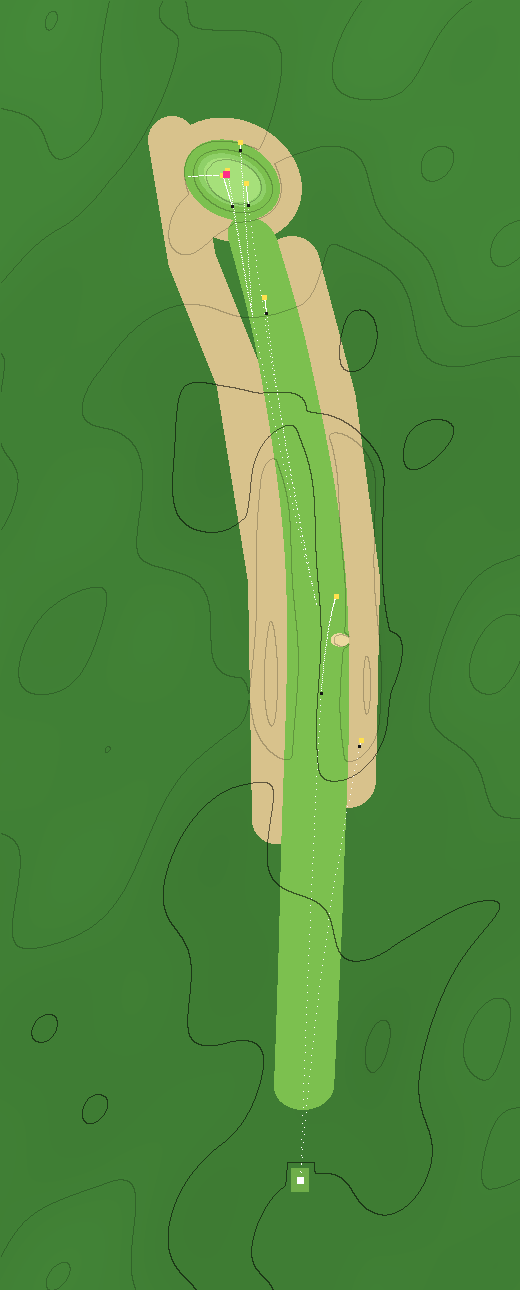
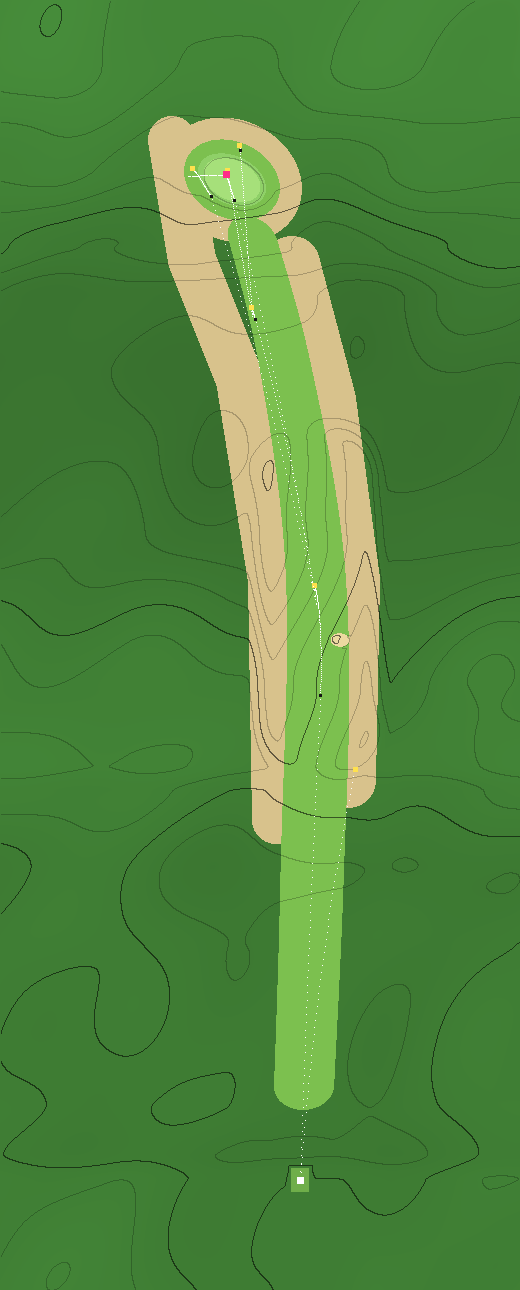
Pinehurst 5: heights and the fairway's slant from the 2003 NC DEM
Frame from the owner's green and tee pins. The DEM (3.4 m, the only USGS
elevation here) has the fairway falling to the left: the second is now
played with the ball above the feet (owner's choice), so the go and
lay-up aims move right (spec §6). Thirteen height ramps replace the
designed rise; the plateau stays.

Claude-Session: https://claude.ai/code/session_01L6C3mgW8iMSD9JZeturm7K

diff --git a/tests/hole-checks.js b/tests/hole-checks.js
@@ -145,18 +145,18 @@ module.exports = {
     shots: [
       { name: 'a good drive finds the fairway', shot: { club: 'Hammer', at: [-8, 288], offset: 0.1 }, expect: { surf: ['FAIRWAY'] } },
       { name: 'a pushed drive is in the wiregrass and sand, not the rough', shot: { club: 'Hammer', at: [-8, 288], offset: 0.5 }, expect: { end: 'rest', surf: ['WASTE'] } },
-      { name: 'the second shot is played with the ball below the feet', shot: { from: [-8, 288], club: '3-Wood' }, expect: { stance: 'BALL BELOW FEET · SLICES' } },
-      { name: 'a full 3-wood aimed straight at the pin from the slanted fairway is pushed right by the lie and finishes well away', shot: { from: [-8, 288], club: '3-Wood', at: 'pin', power: 1 }, expect: { end: 'rest', minToPin: 10 } },
-      { name: 'the same 3-wood aimed left of the green, allowing for the slant, finishes close', shot: { from: [-8, 288], club: '3-Wood', at: [46, 503] }, expect: { end: 'rest', surf: ['GREENS'], maxToPin: 8 } },
-      { name: 'the lay-up with an iron finds the fairway at wedge distance', shot: { from: [-8, 288], club: 'Iron', at: [24, 432] }, expect: { end: 'rest', surf: ['FAIRWAY'], minToPin: 50, maxToPin: 90 } },
+      { name: 'the second shot is played with the ball above the feet', shot: { from: [-8, 288], club: '3-Wood', at: [25, 505] }, expect: { stance: 'BALL ABOVE FEET · HOOKS' } },
+      { name: 'a full 3-wood aimed straight at the pin from the slanted fairway is hooked left by the lie and finishes well away', shot: { from: [-8, 288], club: '3-Wood', at: 'pin', power: 1 }, expect: { end: 'rest', minToPin: 10 } },
+      { name: 'the same 3-wood aimed right of the pin, allowing for the slant, finishes close', shot: { from: [-8, 288], club: '3-Wood', at: [25, 505] }, expect: { end: 'rest', surf: ['GREENS'], maxToPin: 8 } },
+      { name: 'the lay-up with an iron finds the fairway at wedge distance', shot: { from: [-8, 288], club: 'Iron', at: [13, 432] }, expect: { end: 'rest', surf: ['FAIRWAY'], minToPin: 50, maxToPin: 90 } },
       { name: 'from the lay-up, a well-struck wedge at the pin holds the top', shot: { from: [24, 432], club: 'Wedge', offset: 0.1 }, expect: { surf: ['GREENS'], maxToPin: 6 } },
       { name: 'a wedge flown to the back-left edge runs off the falloff', shot: { from: [24, 432], club: 'Wedge', at: [30, 515] }, expect: { end: 'rest', surf: ['FAIRWAY', 'FRINGE', 'WASTE', 'ROUGH'] } },
       { name: 'from the low runoff left of the green, a wedge back up the falloff finishes on or near the green', shot: { from: [56, 502], club: 'Wedge', offset: 0.1 }, expect: { end: 'rest', maxToPin: 10 } },
     ],
     strategies: [
-      { name: 'the second shot: go for the green with a 3-wood (aimed left of it, for the slant) or lay up with an iron to wedge distance', plans: [
-          { name: 'go', shot: { from: [-8, 288], club: '3-Wood', at: [46, 503] } },
-          { name: 'layup', shot: { from: [-8, 288], club: 'Iron', at: [24, 432] } } ],
+      { name: 'the second shot: go for the green with a 3-wood (aimed right of the pin, for the slant) or lay up with an iron to wedge distance', plans: [
+          { name: 'go', shot: { from: [-8, 288], club: '3-Wood', at: [25, 505] } },
+          { name: 'layup', shot: { from: [-8, 288], club: 'Iron', at: [13, 432] } } ],
         expect: [
           ['a sharp player who goes for it reaches the green most of the time', r => (r.go.sharp.surfs.GREENS || 0) / r.go.sharp.n >= 0.5],
           ['a shaky one rarely holds it', r => (r.go.shaky.surfs.GREENS || 0) / r.go.shaky.n <= 0.35],

diff --git a/index.html b/index.html
@@ -589,9 +589,12 @@ const HOLES=[
   fw:[[40,15],[200,16],[300,15],[410,13],[480,12]],fairway:[[35,482]],
   green:{x:34,z:500,rx:15,rz:10,rot:0.45},pin:{x:37,z:503},tilt:{x:-0.006,z:-0.011},
   features:[
-    {type:'tilt',area:{pts:[[-10,230],[-8,350]],w:22},grade:0.08,edge:14},        // the fairway slants: rises to the left, so the ball sits below the feet
-    {type:'ramp',z0:370,z1:490,dh:2},                                              // the hole rises to the green
-    {type:'rise',area:{x:34,z:500,rx:17,rz:12,rot:0.45},dh:1.2,edge:8},            // the green sits up above the fairway and runoffs
+    {type:'tilt',area:{pts:[[-10,230],[-8,350]],w:22},grade:-0.1,edge:14},        // the fairway slants: falls to the left (2003 DEM: 4-6 %; doubled, §5), so the ball sits above the feet and hooks
+    // heights along the line from the 2003 NC DEM (3.4 m, before the restoration; lidar.py build, docs/holes/trace/pinehurst-5.json): gentle roll, a dip at 250-360, then up 5 yd to the green
+    {type:'ramp',z0:0,z1:13,dh:-0.92},{type:'ramp',z0:13,z1:38.9,dh:0.6},{type:'ramp',z0:77.8,z1:116.7,dh:-0.16},{type:'ramp',z0:116.7,z1:155.6,dh:-0.72},
+    {type:'ramp',z0:155.6,z1:194.5,dh:1.23},{type:'ramp',z0:194.5,z1:207.4,dh:0.93},{type:'ramp',z0:207.4,z1:246.3,dh:-0.89},{type:'ramp',z0:246.3,z1:324.1,dh:-2.91},
+    {type:'ramp',z0:324.1,z1:363,dh:-0.63},{type:'ramp',z0:401.9,z1:440.8,dh:0.87},{type:'ramp',z0:440.8,z1:466.7,dh:1.92},{type:'ramp',z0:466.7,z1:505.6,dh:2.2},
+    {type:'ramp',z0:505.6,z1:557.5,dh:1.51},
     {type:'hollow',area:{x:34,z:500,rx:18.5,rz:13,rot:0.45},depth:-0.75,flat:0.62,edge:2},  // the plateau: a top that barely moves, falling away steeply at its edges
     {type:'hollow',area:{x:35,z:500,rx:8,rz:5,rot:0.45},depth:-0.07,edge:2},    // movement on the top (see docs/holes/pinehurst-5.md): a broad, low crown in the middle...
     {type:'hollow',area:{x:24,z:497,rx:6,rz:4.5,rot:0.45},depth:0.07,edge:2},     // ...and soft pockets back-left, back-right and front

diff --git a/docs/holes/pinehurst-5.md b/docs/holes/pinehurst-5.md
@@ -42,11 +42,11 @@
 | Elevated plateau green with steep edges | `hollow` with negative `depth` and the new `flat` option: the top stays nearly level over most of the green and the drop happens in a ring at the edges | A ball that stays on the top holds; one that reaches an edge runs off |
 | Internal movement on the green | two small `hollow` swales and one low bump inside the plateau | Gentle breaks between flatter pockets, like the map |
 | Green on a diagonal | green ellipse rotated so its long axis runs front-right → back-left | The approach from the right plays to a shallow target |
-| Raised green, lower on the left | `rise` under the green, plus a `tilt` that drops away on the right of the green | Long-left leaves a pitch from below; right falls away |
+| Raised green | the DEM's rise along the line (about 5 yd over the last 100 yd) under the plateau `hollow`; the old 1.2 yd `rise` removed (it stacked on the DEM's) | Long-left leaves a pitch from below; right falls away |
 | Short, firm runoffs | `cover` FAIRWAY ring around the green, then WASTE beyond | Balls run off the edges and keep going |
 | Wiregrass and sand | `WASTE` bands along both sides of the fairway | A poor lie, not a lost ball |
-| Slanted fairway | `tilt` over the second-shot landing zone | Ball below the feet: StanceModel pushes the second shot right |
-| Rises and turns left | `ramp` up over the last third; route bends left | |
+| Slanted fairway | `tilt` over the second-shot landing zone, falling to the left (2003 DEM) | Ball above the feet: StanceModel hooks the second shot left |
+| Rolls, dips, then rises and turns left | thirteen `ramp`s from the 2003 NC DEM (`lidar.py build`): ±1 yd of roll, a 3.5 yd dip at 250–360, then 5 yd up to the green; route bends left | |
 
 **Capability gap closed**: a crown with a level top was not expressible (a negative `hollow` is a dome, steepest halfway out). `hollow` gains an optional `flat` (0–1): the share of the area's radius that stays at full depth before the falloff starts. Default 0 keeps every existing hole identical.
 
@@ -57,9 +57,9 @@
 | Characteristic | Real | Game | Why this amount |
 |---|---|---|---|
 | Length | 576–588 yd | 504 yd | Reachable in two with a good drive and a 3-wood run up the front, which is the real hole's question for tour players |
-| Plateau | steep at the edges, gentle inside | `hollow` depth −0.75, `flat:0.62` over an 18.5 × 13 yd area, on a 1.2 yd `rise`; the green is 30 × 20 yd | On the slope map (`node tests/tools/slope.js pinehurst-5` → `docs/maps/pinehurst-5-slope.png`, same colour bands as Kevin's map): 34% of the surface steeper than 4% (the edge ring), 14% at 2.5–4%, 43% at 1–2.5%, 10% under 1% |
+| Plateau | steep at the edges, gentle inside | `hollow` depth −0.75, `flat:0.62` over an 18.5 × 13 yd area, on the DEM's rise (the 1.2 yd `rise` was removed, 2026-10-20); the green is 30 × 20 yd | On the slope map (`node tests/tools/slope.js pinehurst-5` → `docs/maps/pinehurst-5-slope.png`, same colour bands as Kevin's map): 34% of the surface steeper than 4% (the edge ring), 14% at 2.5–4%, 43% at 1–2.5%, 10% under 1% |
 | Movement on top | several flat pockets with gentle slopes between | green `tilt` about 1.3% plus a low crown (−0.07) and three soft pockets (0.06–0.07) | Earlier tries: small 0.1–0.12 pockets made steep rings inside the green; a dead-flat top (no tilt) read as a table |
-| Fairway slant | a sidehill lie | `tilt` grade 0.08 over the second-shot zone | A full 3-wood aimed at the pin finishes 11 yd away; aimed left to allow for it, 2 yd |
+| Fairway slant | falls 4–6 % to the left (2003 DEM) | `tilt` grade −0.10 over the second-shot zone | Doubled so the lie, not the DEM's downhill run along the line, decides the stance at (−8, 288) (at −0.08 the stance read DOWNHILL). A full 3-wood at the pin finishes 17 yd away; aimed right of the pin, on the green |
 
 **What changed from the first version**: the first build was a par 4 with a dome (`hollow` depth −2.8, no flat top) that Kevin rightly called a turtle shell: the whole green sloped, steepest halfway out. The plateau keeps the shedding at the edges and lets the top putt like a real green.
 
@@ -78,9 +78,9 @@
 |---|---|
 | A good drive | Fairway |
 | A pushed drive | Waste |
-| The second shot sits on a sidehill lie | Stance: ball below the feet |
-| A full 3-wood aimed straight at the pin from the slanted fairway | Pushed right by the lie: 10+ yd from the pin |
-| The same 3-wood aimed left, allowing for the slant | On the green, ≤ 8 yd |
+| The second shot sits on a sidehill lie | Stance: ball above the feet |
+| A full 3-wood aimed straight at the pin from the slanted fairway | Hooked left by the lie: 10+ yd from the pin |
+| The same 3-wood aimed right of the pin, at (25, 505), allowing for the slant | On the green, ≤ 8 yd |
 | A lay-up with an iron | Fairway, wedge distance left |
 | A well-struck wedge at the pin from the lay-up | Holds the plateau, close |
 | A wedge aimed at the green's edge | Runs off the falloff |
@@ -88,54 +88,72 @@
 
 | Decision | Plans | Must hold |
 |---|---|---|
-| Second shot | go for it with a 3-wood aimed at (46,503), left of the pin, to allow for the slant / lay up with an iron to (24,432) | A sharp player holds the green ≥ 50% going for it, a shaky one ≤ 35%; going for it saves a sharp player ≥ 0.5 strokes; a shaky player gains under three quarters as much |
+| Second shot | go for it with a 3-wood aimed at (25,505), right of the pin, to allow for the slant / lay up with an iron aimed at (13,432) | A sharp player holds the green ≥ 50% going for it, a shaky one ≤ 35%; going for it saves a sharp player ≥ 0.5 strokes; a shaky player gains under three quarters as much |
 
 **Contract revised after the first tuning run**: I first wrote "the 3-wood aimed at the pin misses the green" and "laying up is right for a shaky player". The first is false on this green: the push leaves the ball on the front-right lobe 11 yd away, so the check now asserts the distance instead. The second the tour-style baseline does not support: it scores a shaky player going for it at 3.36 against 3.75 laying up, because it treats a 20-yard recovery from beside the green as easy. The contract asserts what is true: the payoff shrinks from 0.84 to 0.39 strokes and the shaky player holds the green 5 times in 21.
 
 **Re-measured with the recovery term** (the baseline's new charge for a ball with a steep face to climb or a short-sided pin): going for it is 3.42 against 3.75 laying up for a shaky player, so the baseline still favours going, only a little less (0.33 strokes instead of 0.39; 0.84 for a sharp player, unchanged). The term does not flip it because the shaky balls that miss finish in the waste about 33 yd from the pin, with no face to climb within its 10 yd window. No check changed; the contract still asserts the rates and the gap, not that laying up is right.
 
+**Check-change log** (2026-10-20, heights and slant from the 2003 NC DEM)
+
+| Check | Was | Now | Why |
+|---|---|---|---|
+| The second shot's stance | ball below the feet (slices) | ball above the feet (hooks) | The DEM has the fairway falling 4–6 % to the left from 150 to 525 yd, not rising: the lie hooks. The project owner chose the real slant (2026-10-20) |
+| The 3-wood at the pin | pushed right | hooked left | Same |
+| The go shot's aim (shot and strategy) | (46, 503), left of the pin | (25, 505), right of the pin | Allowing for a hook, not a slice: aimscan's best for both skills |
+| The lay-up's aim (shot and strategy) | (24, 432) | (13, 432) | The hook takes an iron aimed at (24, 432) into the waste left; aimed at (13, 432) it finishes about (22, 430), where the wedge checks start |
+
 ## 7. Results
+
+`node tests/hole-report.js --hole=pinehurst-5` after the DEM rebuild:
 
 ```
 === Pinehurst No. 2 (pinehurst-5) — A par 5 that rises and turns left to an elevated plateau green set on a diagonal: gentle on top, falling away steeply at every edge onto short runoffs and wiregrass. Going for it in two means a 3-wood from a slanted fairway; most players lay up and wedge onto the top.
 shot                                                                           before           after
-a good drive finds the fairway                                                 FAIRWAY 227y     FAIRWAY 218y
-a pushed drive is in the wiregrass and sand, not the rough                     ROUGH 290y       WASTE 291y
-the second shot is played with the ball below the feet                         ROUGH 17y        GREENS 11y
-a full 3-wood aimed straight at the pin from the slanted fairway is pushed ri  ROUGH 17y        GREENS 11y
-the same 3-wood aimed left of the green, allowing for the slant, finishes clo  ROUGH 18y        GREENS 2y
-the lay-up with an iron finds the fairway at wedge distance                    FAIRWAY 65y      FAIRWAY 65y
+a good drive finds the fairway                                                 FAIRWAY 227y     FAIRWAY 210y
+a pushed drive is in the wiregrass and sand, not the rough                     ROUGH 290y       WASTE 305y
+the second shot is played with the ball above the feet                         ROUGH 18y        GREENS 0y
+a full 3-wood aimed straight at the pin from the slanted fairway is hooked le  ROUGH 17y        FAIRWAY 17y
+the same 3-wood aimed right of the pin, allowing for the slant, finishes clos  ROUGH 18y        GREENS 0y
+the lay-up with an iron finds the fairway at wedge distance                    FAIRWAY 68y      FAIRWAY 67y
 from the lay-up, a well-struck wedge at the pin holds the top                  GREENS 2y        GREENS 2y
-a wedge flown to the back-left edge runs off the falloff                       ROUGH 14y        WASTE 18y
+a wedge flown to the back-left edge runs off the falloff                       ROUGH 14y        FAIRWAY 16y
 from the low runoff left of the green, a wedge back up the falloff finishes o  GREENS 1y        GREENS 0y
 
-  strategy: the second shot: go for the green with a 3-wood (aimed left of it, for the slant) or lay up with an iron to wedge distance
+  strategy: the second shot: go for the green with a 3-wood (aimed right of the pin, for the slant) or lay up with an iron to wedge distance
   plan       skill   before: wet green score   after: wet green score
-  go         sharp           0%   0% 3.48              0%  62% 2.83
-  go         shaky           0%   5% 3.50              0%  24% 3.42
-  layup      sharp           0%   0% 3.73              0%   0% 3.67
-  layup      shaky           0%   0% 3.78              0%   0% 3.75
-  payoff of go over layup (strokes saved): sharp 0.25 → 0.84, shaky 0.28 → 0.33   (before → after)
-```
+  go         sharp           0%   0% 3.52              0%  76% 2.81
+  go         shaky           0%   5% 3.54              0%  29% 3.32
+  layup      sharp           0%   0% 3.68              0%   0% 3.72
+  layup      shaky           0%   0% 3.74              0%   0% 3.81
+  payoff of go over layup (strokes saved): sharp 0.16 → 0.91, shaky 0.20 → 0.49   (before → after)
 
-"Before" is the same land and green with no plateau, slant, waste, runoffs, bunker or play profile. Expected strokes ("score") come from the baseline in `tests/hole-play.js`, including its recovery-difficulty term (see `docs/ICONIC-HOLES.md`), so they differ slightly from earlier pastes of this table.
+"score" = expected strokes for the whole hole from that moment (tour-style baseline; water/OB = stroke and distance).
+```
 
 ## 8. Review — does it look like the hole?
 
-**Fast lane, partial** (2026-10-20). No 1 m lidar covers this pin: the National Map's only elevation here is the 2003 NC statewide DEM (1/9 arc-second, about 3.4 m; before the 2010–11 restoration). It was fetched and resampled to a 1 m UTM tile in `tests/tools/refs/` (not in the repo), but it cannot show the tee: the hole's direction is not settled, so no heights or frame were taken from it. A flyover rendering from the project owner confirms the layout (tee bottom-left, a long corridor with waste both sides, the green raised at the far end) but is oblique, so nothing was traced.
+**Fast lane, coarse heights** (2026-10-20). No 1 m lidar covers this pin: the National Map's only elevation here is the 2003 NC statewide DEM (1/9 arc-second, about 3.4 m; before the 2010–11 restoration), resampled to a 1 m UTM tile in `tests/tools/refs/` (not in the repo). Heights and the fairway's slant come from it; bunkers, waste and the green's edge cannot (3.4 m, and pre-restoration). Frame: `docs/holes/trace/pinehurst-5.json`, from the owner's pins on the green and the tee (444.5 m at 246.0°; 1.134 game yd per m, so the straight line matches the card's 504). A flyover rendering confirms the layout; it is oblique, so nothing was traced.
 
 **What changed**
 
 | Item | Was | Now |
 |---|---|---|
-| Fairway bunker at (−20, 270) | depth 1.4, lip 0.5 | depth 0.5, lip 0.25: set into the land like the lidar bunkers elsewhere; its shape and place are still from words |
-| Highest hop, ten seeds (counted from the first touchdown) | 2.72 yd | 2.15 yd |
+| Heights along the hole | +2 yd over z 370–490, a 1.2 yd rise under the green | thirteen DEM ramps: ±1 yd of roll, a 3.5 yd dip at 250–360, 5 yd up to the green |
+| Fairway slant (second-shot zone) | rises to the left, grade 0.08: ball below the feet | falls to the left, grade −0.10: ball above the feet (§5) |
+| Fairway bunker at (−20, 270) | depth 1.4, lip 0.5 | depth 0.5, lip 0.25; its shape and place are still from words |
+| Highest hop, ten seeds (from the first touchdown) | 2.72 yd | 3.21 yd (under the 3.5 guard; the worst is a drive off the bunker's lip) |
 
-**Verdict**: unchanged from the review-only pass below, except the bunker's depth.
+**Verdict**
+- Tee and direction: **matches** (the owner's two pins).
+- Heights: **close** — from a 3.4 m, 2003 DEM.
+- Green: **no reference** — still the ellipse and the plateau features.
+- Bunkers and waste: **no reference** — the DEM is too coarse and too old.
+- Slant: **matches** the DEM (and, as far as I know, descriptions of the hole as right-to-left): **differs from this spec's first version**.
 
 **Open items**
-1. A map pin on the tee (or a yardage-book page with a compass) to set the frame; then heights from the 2003 DEM (rise to the green, the fairway's slant).
-2. Newer lidar (NC 2015 QL2, on `sdd.nc.gov`: not reachable from the sandbox) for the bunkers and waste areas, and a top-down aerial of the green.
+1. Newer lidar (NC 2015 QL2, on `sdd.nc.gov`: not reachable from the sandbox) for the bunkers and waste, and a top-down aerial of the green.
+2. Going for it now pays a sharp player 0.91 strokes and a shaky one 0.49 (the baseline favoured going before too, by 0.84 and 0.33): the hole leans further toward going than "most players lay up".
 
 ### Earlier review-only pass
 
